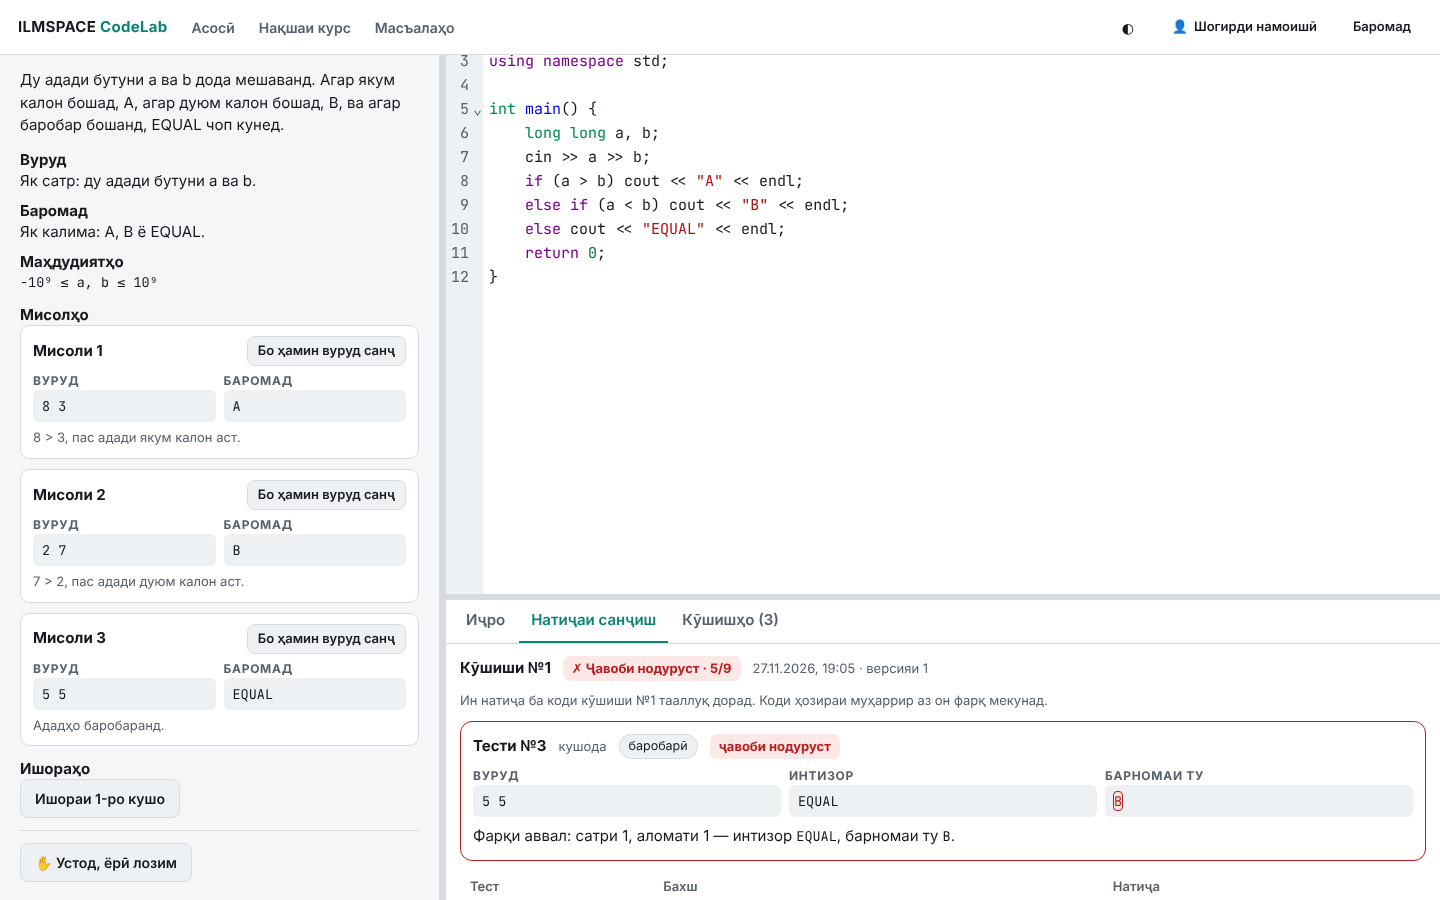
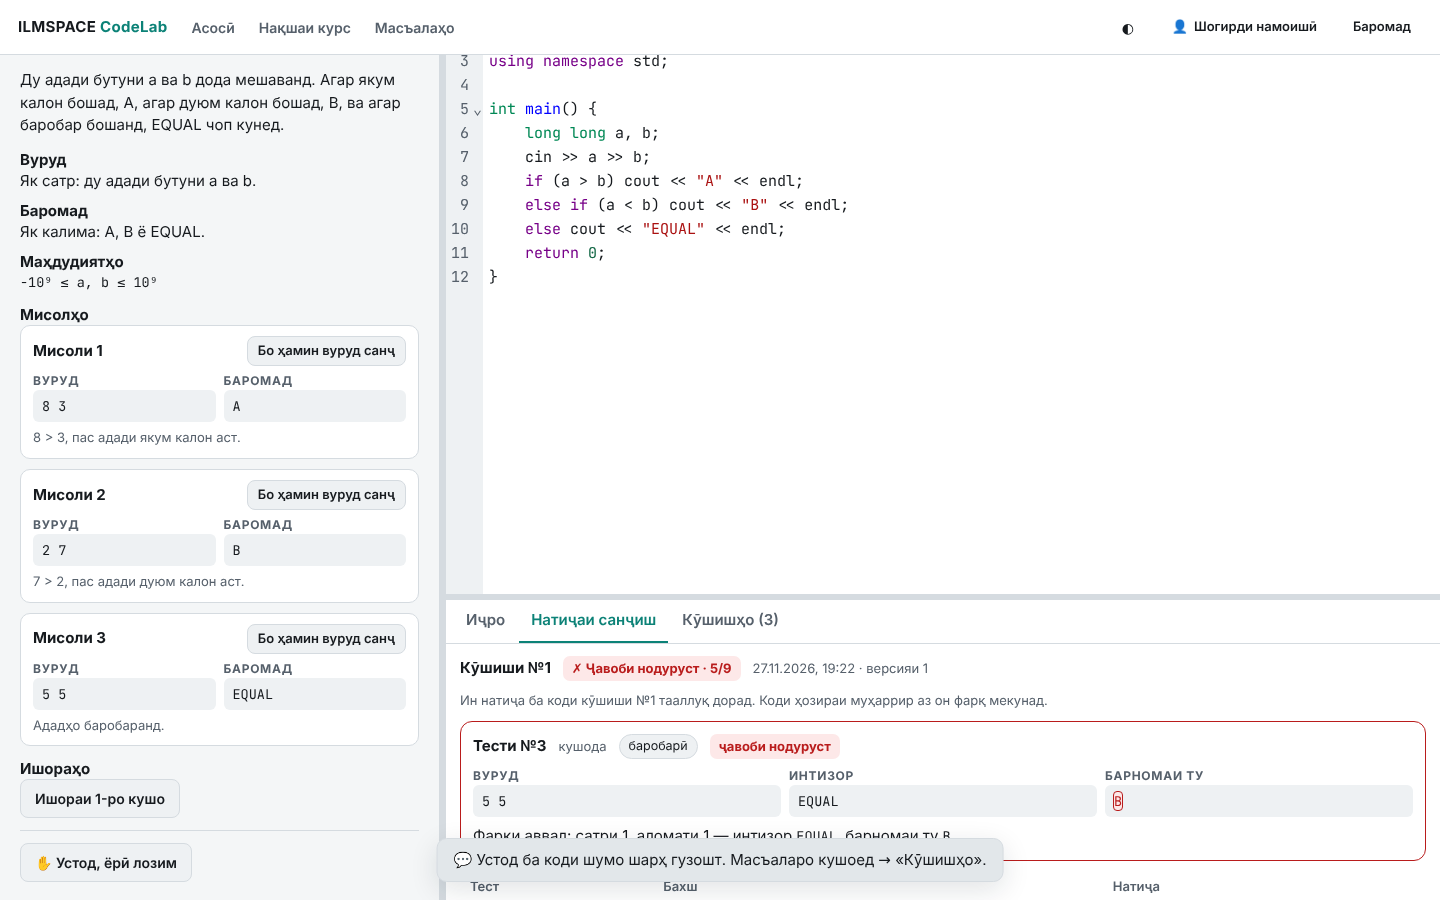
Иловаҳо барои дарси воқеӣ
- Устод барои шогирд пароли нав месозад (агар фаромӯш кунад)
- Саҳифаи пешрафти пурраи як шогирд
- Натиҷаҳои гурӯҳ ба Excel (CSV)
- Нест кардани гурӯҳ (бо тасдиқи ном)
- Огоҳӣ ба шогирд: шарҳи устод, дархости ёрӣ, вазифаи нав

Claude-Session: https://claude.ai/code/session_01KDgEcX2EuYCxtb9ZZasZwA

Changed region(s): [[0.2812, 0.9333, 0.7188, 0.9956]]

diff --git a/web/src/teacher.js b/web/src/teacher.js
@@ -142,12 +142,17 @@ function LessonsTab({ g, templates, reload }) {
 }
 
 function StudentsTab({ g, reload }) {
-  const [login, setLogin] = useState(''); const [err, setErr] = useState(null);
+  const [login, setLogin] = useState(''); const [err, setErr] = useState(null); const [pw, setPw] = useState(null);
+  const resetPw = async m => { if (!confirm(`Барои ${m.name} пароли нав созем? Пароли кӯҳна дигар кор намекунад.`)) return; try { const r = await api(`/api/groups/${g.group.id}/members/${m.id}/password`, { method: 'POST' }); setPw({ ...r, name: m.name }); } catch (e) { setErr(e.message); } };
   const act = async (fn, msg) => { setErr(null); try { await fn(); msg && toast(msg); reload(true); } catch (e) { setErr(e.message); } };
   const pending = g.members.filter(m => m.status === 'pending'), active = g.members.filter(m => m.status === 'active');
   return html`<div class="grid2">
     <div class="card"><h3>Шогирдони гурӯҳ</h3>
-      ${!active.length ? html`<div class="muted">Ҳанӯз шогирд нест.</div>` : html`<table class="t"><tbody>${active.map(m => html`<tr><td><b>${m.name}</b> <span class="muted mono small">${m.login}</span></td><td style="text-align:right"><button class="btn sm danger" onClick=${() => confirm(`${m.name}-ро аз гурӯҳ хориҷ кунем?`) && act(() => api(`/api/groups/${g.group.id}/members/${m.id}`, { method: 'DELETE' }))}>Хориҷ кун</button></td></tr>`)}</tbody></table>`}
+      ${!active.length ? html`<div class="muted">Ҳанӯз шогирд нест.</div>` : html`<table class="t"><tbody>${active.map(m => html`<tr><td><b>${m.name}</b> <span class="muted mono small">${m.login}</span></td><td style="text-align:right;white-space:nowrap"><a class="btn sm" href=${`#/g/${g.group.id}/s/${m.id}`}>Пешрафт</a> <button class="btn sm" onClick=${() => resetPw(m)}>Пароли нав</button> <button class="btn sm danger" onClick=${() => confirm(`${m.name}-ро аз гурӯҳ хориҷ кунем?`) && act(() => api(`/api/groups/${g.group.id}/members/${m.id}`, { method: 'DELETE' }))}>Хориҷ кун</button></td></tr>`)}</tbody></table>`}
+      ${pw && html`<div class="notice ok" style="margin-top:10px" role="status">Пароли нав барои <b>${pw.name}</b>: логин <b class="mono">${pw.login}</b>, парол <b class="mono" style="font-size:18px">${pw.password}</b><div class="small">Ба шогирд гӯед. Ӯ баъд дар «👤 Ҳисоби ман» пароли худро гузошта метавонад.</div></div>`}
+      <div class="sep"></div>
+      <div class="row"><a class="btn" href=${`/api/groups/${g.group.id}/export.csv`} download>⬇ Натиҷаҳо ба Excel</a><div class="spacer"></div>
+        <button class="btn sm danger" onClick=${async () => { if (prompt(`Барои нест кардан номи гурӯҳро нависед: ${g.group.name}`) !== g.group.name) return; try { await api('/api/groups/' + g.group.id, { method: 'DELETE' }); toast('Гурӯҳ нест карда шуд.'); location.hash = '#/'; } catch (e) { toast(e.message); } }}>Гурӯҳро нест кун</button></div>
     </div>
     <div class="col">
       ${pending.length > 0 && html`<div class="card hl"><h3>Дархостҳои нав</h3>${pending.map(m => html`<div class="row" style="padding:6px 0"><b>${m.name}</b><span class="mono small muted">${m.login}</span><div class="spacer"></div>
@@ -254,5 +259,33 @@ export function Report({ id }) {
     </div>
     ${drill && html`<${AttemptsModal} title=${drill.title} ids=${drill.ids} onClose=${() => setDrill(null)} />`}
     ${hw && html`<${Modal} title="Вазифаи хонагӣ барои гурӯҳ" onClose=${() => setHw(false)} wide><${AssignmentForm} g=${{ id: r.lesson.group_id }} problems=${problems} preset=${hwPreset} lessonId=${r.lesson.id} onDone=${() => setHw(false)} /><//>`}
+  </div>`;
+}
+
+export function StudentProgress({ gid, uid }) {
+  const [{ data, loading, error }, reload] = useLoad(() => api(`/api/groups/${gid}/students/${uid}`), [gid, uid]);
+  const [open, setOpen] = useState(null);
+  useEvents(ev => { if (ev.type === 'activity' && Number(ev.user_id) === Number(uid)) reload(true); }, [uid]);
+  if (loading) return html`<${Loading} />`;
+  if (error) return html`<div class="page"><${ErrorBox} error=${error} retry=${reload} /></div>`;
+  const { student, problems, help, assignments } = data;
+  const solved = problems.filter(p => p.solved).length;
+  return html`<div class="page">
+    <a href=${`#/g/${gid}?tab=students`} class="small">← Шогирдон</a>
+    <div class="row" style="margin:6px 0 14px"><h1>${student.name}</h1><span class="chip mono">${student.login}</span><span class="chip acc">${solved} аз ${problems.length} ҳал шуд</span></div>
+    <div class="grid2">
+      <div class="card" style="overflow:auto"><h3>Масъалаҳо</h3>
+        ${TOPIC_KEYS.map(t => { const ps = problems.filter(p => p.topic === t); if (!ps.length) return null; return html`<div class="kicker" style="margin-top:12px">${TOPIC[t]} · ${ps.filter(p => p.solved).length}/${ps.length}</div>
+          <table class="t" style="table-layout:fixed"><tbody>${ps.map(p => html`<tr class=${p.last_id ? 'click' : ''} onClick=${() => p.last_id && setOpen({ id: p.last_id })}>
+            <td style="width:42%">${p.title}</td>
+            <td style="width:33%">${p.solved ? html`<span class="v v-ok">✓ Ҳал шуд</span>` : p.last ? html`<${Verdict} v=${p.last.verdict} extra=${['CE'].includes(p.last.verdict) ? '' : `${p.last.passed}/${p.last.total}`} />` : html`<span class="v v-none">Оғоз нашуд</span>`}</td>
+            <td class="muted small">${p.attempts ? `${p.attempts} кӯшиш` : ''}${p.solved_at ? ` · ${fDateTime(p.solved_at)}` : ''}</td></tr>`)}</tbody></table>`; })}
+      </div>
+      <div class="col">
+        <div class="card"><h3>Вазифаҳои хонагӣ</h3>${!assignments.length ? html`<div class="muted small">Вазифа нест.</div>` : assignments.map(a => html`<div style="margin-bottom:10px"><b>${a.title}</b> <span class="muted small">то ${fDateTime(a.due_at)}</span>${a.problems.map(p => html`<div class="row" style="padding:2px 0"><span class="small">${p.title}</span><div class="spacer"></div><${AsgState} s=${p.state} /></div>`)}</div>`)}</div>
+        <div class="card"><h3>Дархостҳои ёрӣ</h3>${!help.length ? html`<div class="muted small">Дархост набуд.</div>` : help.map(h => html`<div class="small" style="padding:3px 0">${fDateTime(h.created_at)} · «${h.question}» <span class="muted">(${h.status === 'done' ? 'анҷом ёфт' : h.status === 'taken' ? 'гирифта шуд' : 'интизор'})</span></div>`)}</div>
+      </div>
+    </div>
+    ${open && html`<${AttemptsModal} title=${'Кӯшиши охирин'} ids=${[open.id]} onClose=${() => setOpen(null)} />`}
   </div>`;
 }

diff --git a/server/app.js b/server/app.js
@@ -426,6 +426,61 @@ export function createApp({ dbFile, staticDir, seed = true } = {}) {
     publish([uid], { type: 'membership', group_id: gid });
     return { ok: true };
   });
+  // Пароли муваққатӣ барои шогирде, ки паролашро фаромӯш кард
+  R('POST', '/api/groups/:id/members/:uid/password', ({ user, params }) => {
+    need(user, 'teacher'); const gid = Number(params.id), uid = Number(params.uid);
+    if (!ownsGroup(user, gid) || !Q.get('SELECT 1 FROM group_members WHERE group_id=? AND user_id=?', gid, uid)) throw forbidden();
+    const A = 'abcdefghkmnpqrstuvwxyz23456789'; let pw = ''; for (let i = 0; i < 8; i++) pw += A[Math.floor(Math.random() * A.length)];
+    Q.run('UPDATE users SET pass_hash=? WHERE id=?', hashPassword(pw), uid);
+    Q.run('DELETE FROM sessions WHERE user_id=?', uid);
+    return { password: pw, login: Q.get('SELECT login FROM users WHERE id=?', uid).login };
+  });
+  // Пешрафти пурраи як шогирд
+  R('GET', '/api/groups/:id/students/:uid', ({ user, params }) => {
+    need(user, 'teacher'); const gid = Number(params.id), uid = Number(params.uid);
+    if (!ownsGroup(user, gid) || !isMember(uid, gid)) throw forbidden();
+    const st = Q.get('SELECT id, name, login, created_at FROM users WHERE id=?', uid);
+    const rows = Q.all(`SELECT s.problem_id pid, COUNT(*) n, SUM(g.verdict='AC') ac, MIN(CASE WHEN g.verdict='AC' THEN s.created_at END) solved_at, MAX(s.id) last_id
+      FROM submissions s JOIN gradings g ON g.submission_id=s.id WHERE s.user_id=? AND g.verdict!='SE' GROUP BY s.problem_id`, uid);
+    const by = new Map(rows.map(r => [r.pid, r]));
+    const problems = Q.all('SELECT id, topic FROM problems WHERE current_version>0 ORDER BY position, id').map(p => {
+      const r = by.get(p.id); const last = r ? Q.get('SELECT verdict, passed, total, failed_tags FROM gradings WHERE submission_id=?', r.last_id) : null;
+      return { id: p.id, topic: p.topic, title: publicProblem(p.id).title, attempts: r?.n || 0, solved: !!r?.ac, solved_at: r?.solved_at || null, last_id: r?.last_id || null, last: last ? { ...last, failed_tags: J(last.failed_tags) } : null };
+    }).filter(p => p.attempts > 0 || !J(Q.get('SELECT data FROM problem_versions WHERE problem_id=? AND version=(SELECT current_version FROM problems WHERE id=?)', p.id, p.id).data).lessonOnly);
+    const help = Q.all('SELECT question, status, created_at FROM help_requests WHERE user_id=? AND group_id=? ORDER BY id DESC LIMIT 20', uid, gid);
+    const asg = Q.all('SELECT * FROM assignments WHERE group_id=? ORDER BY due_at', gid).map(a => ({ id: a.id, title: a.title, due_at: a.due_at, problems: assignmentStatus(a, uid) }));
+    return { student: st, problems, help, assignments: asg };
+  });
+  // Натиҷаҳои гурӯҳ барои Excel (CSV)
+  R('GET', '/api/groups/:id/export.csv', ({ user, params, res }) => {
+    need(user, 'teacher'); const gid = Number(params.id); if (!ownsGroup(user, gid)) throw forbidden();
+    const g = Q.get('SELECT name FROM groups WHERE id=?', gid);
+    const ps = Q.all('SELECT id, topic FROM problems WHERE current_version>0 ORDER BY position, id').filter(p => !J(Q.get('SELECT data FROM problem_versions WHERE problem_id=? AND version=?', p.id, Q.get('SELECT current_version v FROM problems WHERE id=?', p.id).v).data).lessonOnly);
+    const esc = v => { const t = String(v ?? ''); return /[",;\n]/.test(t) ? '"' + t.replace(/"/g, '""') + '"' : t; };
+    const head = ['Шогирд', 'Логин', 'Ҳал шуд (ҳамагӣ)', ...TOPICS.map(t => t.title), 'Кӯшишҳо', ...ps.map(p => publicProblem(p.id).title)];
+    const lines = [head.map(esc).join(';')];
+    for (const m of members(gid)) {
+      const solved = solvedSet(m.id);
+      const att = Q.get("SELECT COUNT(*) c FROM submissions s JOIN gradings g ON g.submission_id=s.id WHERE s.user_id=? AND g.verdict!='SE'", m.id).c;
+      lines.push([m.name, m.login, ps.filter(p => solved.has(p.id)).length, ...TOPICS.map(t => `${ps.filter(p => p.topic === t.key && solved.has(p.id)).length}/${ps.filter(p => p.topic === t.key).length}`), att,
+        ...ps.map(p => solved.has(p.id) ? 'ҳал шуд' : (Q.get('SELECT 1 FROM submissions WHERE user_id=? AND problem_id=?', m.id, p.id) ? 'кӯшиш' : ''))].map(esc).join(';'));
+    }
+    const name = encodeURIComponent(`${g.name} — натиҷаҳо ${dushanbeDate()}.csv`);
+    res.writeHead(200, { 'Content-Type': 'text/csv; charset=utf-8', 'Content-Disposition': `attachment; filename*=UTF-8''${name}` });
+    res.end('' + lines.join('\r\n'));
+  }, { raw: true });
+  // Нест кардани гурӯҳ
+  R('DELETE', '/api/groups/:id', ({ user, params }) => {
+    need(user, 'teacher'); const gid = Number(params.id); if (!ownsGroup(user, gid)) throw forbidden();
+    const aud = groupAudience(gid);
+    Q.tx(() => {
+      Q.run('DELETE FROM help_requests WHERE group_id=?', gid);
+      Q.run('UPDATE submissions SET lesson_id=NULL WHERE lesson_id IN (SELECT id FROM lessons WHERE group_id=?)', gid);
+      Q.run('UPDATE submissions SET assignment_id=NULL WHERE assignment_id IN (SELECT id FROM assignments WHERE group_id=?)', gid);
+      Q.run('DELETE FROM groups WHERE id=?', gid);
+    });
+    publish(aud, { type: 'membership', group_id: gid }); return { ok: true };
+  });
   R('DELETE', '/api/groups/:id/members/:uid', ({ user, params }) => {
     need(user, 'teacher'); const gid = Number(params.id); if (!ownsGroup(user, gid)) throw forbidden();
     Q.run('DELETE FROM group_members WHERE group_id=? AND user_id=?', gid, Number(params.uid)); publish([Number(params.uid)], { type: 'membership', group_id: gid }); return { ok: true };
@@ -813,7 +868,8 @@ export function createApp({ dbFile, staticDir, seed = true } = {}) {
     if (params.action === 'take') Q.run("UPDATE help_requests SET status='taken', taken_by=? WHERE id=?", user.id, h.id);
     else if (params.action === 'done') Q.run("UPDATE help_requests SET status='done', done_at=strftime('%Y-%m-%dT%H:%M:%fZ','now') WHERE id=?", h.id);
     else throw bad('Амали номаълум.');
-    publish(groupAudience(h.group_id).slice(0, 1).concat([h.user_id]), { type: 'help', group_id: h.group_id });
+    publish(groupAudience(h.group_id).slice(0, 1), { type: 'help', group_id: h.group_id });
+    publish([h.user_id], { type: 'help', group_id: h.group_id, action: params.action });
     return { ok: true };
   });
 

diff --git a/web/src/main.js b/web/src/main.js
@@ -1,7 +1,7 @@
-import { html, render, useState, useEffect, api, connectEvents, disconnectEvents, Loading, store } from './lib.js';
+import { html, render, useState, useEffect, api, connectEvents, disconnectEvents, Loading, store, useEvents, toast } from './lib.js';
 import { Workspace } from './workspace.js';
 import { StudentHome, ProblemsList, StudentLesson } from './student.js';
-import { TeacherHome, GroupPage, Report } from './teacher.js';
+import { TeacherHome, GroupPage, Report, StudentProgress } from './teacher.js';
 import { LiveLesson, ProjectorScreen } from './live.js';
 import { ProblemEditor, TemplateEditor } from './authoring.js';
 import { CourseMap, SetPage } from './course.js';
@@ -112,6 +112,13 @@ function App() {
   const load = () => api('/api/me').then(r => { setMe(r.user); setJudge(r.judge); setStorage(r.storage); }).catch(() => setMe(store.get('me') || null));
   useEffect(() => { load(); }, []);
   useEffect(() => { if (me) { store.set('me', me); connectEvents(); } else disconnectEvents(); }, [me?.id]);
+  useEvents(ev => {
+    if (me?.role !== 'student') return;
+    if (ev.type === 'comment') toast('💬 Устод ба коди шумо шарҳ гузошт. Масъаларо кушоед → «Кӯшишҳо».');
+    if (ev.type === 'help' && ev.action === 'take') toast('✋ Устод дархости шуморо гирифт — ҳозир ёрӣ медиҳад.');
+    if (ev.type === 'help' && ev.action === 'done') toast('✓ Устод дархости ёрии шуморо анҷомёфта қайд кард.');
+    if (ev.type === 'assignment') toast('📌 Вазифаи нави хонагӣ илова шуд.');
+  }, [me?.role]);
   if (me === undefined) return html`<${Loading} />`;
   if (!me) return html`<${Auth} onAuth=${u => { setMe(u); location.hash = '#/'; load(); }} />`;
   const logout = async () => { try { await api('/api/logout', { method: 'POST' }); } catch {} store.del('me'); setMe(null); };
@@ -129,6 +136,7 @@ function App() {
   else if (seg[0] === 'problems') page = html`<${ProblemsList} user=${me} />`;
   else if (seg[0] === 'p' && !T) page = html`<${Workspace} key=${seg[1] + (q.lesson || '')} user=${me} pid=${Number(seg[1])} lessonId=${q.lesson ? Number(q.lesson) : null} />`;
   else if (seg[0] === 'lesson' && !T) page = html`<${StudentLesson} id=${seg[1]} />`;
+  else if (seg[0] === 'g' && T && seg[2] === 's') page = html`<${StudentProgress} key=${seg[3]} gid=${seg[1]} uid=${seg[3]} />`;
   else if (seg[0] === 'g' && T) page = html`<${GroupPage} key=${seg[1]} id=${seg[1]} tab=${q.tab} />`;
   else if (seg[0] === 'live' && T) page = html`<${LiveLesson} key=${seg[1]} id=${seg[1]} />`;
   else if (seg[0] === 'report' && T) page = html`<${Report} key=${seg[1]} id=${seg[1]} />`;

diff --git a/docs/acceptance.md b/docs/acceptance.md
@@ -1,6 +1,6 @@
 # Натиҷаи санҷишҳои қабул
 
-Сана: 2026-11-27T14:06:25.400Z · Браузер: Chromium (Playwright) · Санҷанда: g++ (local), барои банди 6 — Judge0-и қатъшуда
+Сана: 2026-11-27T14:23:14.731Z · Браузер: Chromium (Playwright) · Санҷанда: g++ (local), барои банди 6 — Judge0-и қатъшуда
 
 **56 аз 56 санҷиш гузашт.**
 

diff --git a/docs/verification.md b/docs/verification.md
@@ -1,6 +1,6 @@
 # Санҷиши масъалаҳо бо ҳалли намунавӣ
 
-Сана: 2026-11-27T14:06:35.063Z · Санҷанда: `local` (g++ C++17, иҷрои воқеӣ)
+Сана: 2026-11-27T14:23:14.646Z · Санҷанда: `local` (g++ C++17, иҷрои воқеӣ)
 
 | # | Масъала | Мавзӯъ | Мисолҳо | Тестҳо (ҳамагӣ) | Пинҳонӣ | Натиҷа |
 |---|---|---|---|---|---|---|
